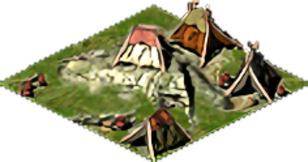
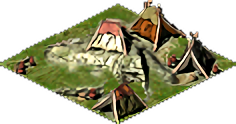
Merges et Upgrades

diff --git a/Caesar_3_MVC/Model/Buildings/House.py b/Caesar_3_MVC/Model/Buildings/House.py
@@ -54,24 +54,11 @@ class House(Building):
 
             #Merge 4 1*1 en un 2*2 :
             if (self.desc == "SmallTent" or self.desc =="LargeTent") :
-                if self.plateau.map[self.case.x-1][self.case.y].structure and self.plateau.map[self.case.x][self.case.y-1].structure and self.plateau.map[self.case.x-1][self.case.y-1].structure :
-                    ans = (self.desc == self.plateau.map[self.case.x-1][self.case.y].structure.desc,self.desc == self.plateau.map[self.case.x][self.case.y-1].structure.desc,self.desc == self.plateau.map[self.case.x-1][self.case.y-1].structure.desc)
-                    print(ans)
+                if self.plateau.map[self.case.x][self.case.y-1].structure and self.plateau.map[self.case.x+1][self.case.y].structure and self.plateau.map[self.case.x+1][self.case.y-1].structure :
+                    ans = (self.desc == self.plateau.map[self.case.x][self.case.y-1].structure.desc,self.desc == self.plateau.map[self.case.x+1][self.case.y].structure.desc,self.desc == self.plateau.map[self.case.x+1][self.case.y-1].structure.desc)
                     if all(ans) :
-                        MergedHouse(self.case,self.plateau,(2,2),self.desc+"2",[self,self.plateau.map[self.case.x-1][self.case.y].structure,self.plateau.map[self.case.x][self.case.y-1].structure,self.plateau.map[self.case.x-1][self.case.y-1].structure])
+                        MergedHouse(self.case,self.plateau,(2,2),self.desc+"2",[self,self.plateau.map[self.case.x][self.case.y-1].structure,self.plateau.map[self.case.x+1][self.case.y].structure,self.plateau.map[self.case.x+1][self.case.y-1].structure])
 
-                        """
-                        self.size=(2,2)
-                        self.desc=self.desc + "2"
-
-                        print(self.desc)
-                        self.plateau.map[self.case.x-1][self.case.y].structure.delete()
-                        self.plateau.map[self.case.x-1][self.case.y].structure=self
-                        self.plateau.map[self.case.x][self.case.y-1].structure.delete()
-                        self.plateau.map[self.case.x][self.case.y-1].structure=self
-                        self.plateau.map[self.case.x-1][self.case.y-1].structure.delete()
-                        self.plateau.map[self.case.x-1][self.case.y-1].structure=self
-"""
 
     def upgrade(self) :
         if self.desc=="SmallTent" : 
@@ -97,6 +84,7 @@ class MergedHouse(House) :
         super().__init__(case, plateau, size, desc)
         self.nbHab = houses[0].nbHab+houses[1].nbHab+houses[2].nbHab+houses[3].nbHab
         self.nbHabMax=self.nbHabMax * 4
+        self.case.render_pos=[self.case.render_pos[0], self.case.render_pos[1]+10]
         self.secCases=[]
         for h in houses :
             self.secCases.append(h.case)
@@ -104,7 +92,18 @@ class MergedHouse(House) :
         for c in self.secCases :
             c.structure = self
         self.plateau.structures.append(self)
-        self.plateau.cityHousesList.append(self)       
+        self.plateau.cityHousesList.append(self)
+
+    def delete(self) :
+        #Supprimer les habitants
+        self.case.setStructure(None)
+        self.case.render_pos=[self.case.render_pos[0], self.case.render_pos[1]-10]
+        for oc in self.secCases :
+            oc.setStructure(None)
+        self.case.setFeature("")
+        self.plateau.cityHousesList.remove(self)
+        self.plateau.structures.remove(self)
+        del self     
 
 
 

diff --git a/Caesar_3_MVC/Model/Buildings/WorkBuilding.py b/Caesar_3_MVC/Model/Buildings/WorkBuilding.py
@@ -27,6 +27,8 @@ class Prefecture(WorkBuilding) :
         super().__init__( case, plateau, size, desc, active)
         self.walker = Prefet(self.case,self.plateau,"Prefectus")
         self.plateau.treasury = self.plateau.treasury - PREFECTURE_COST
+        print(self.case.x)
+        print(self.case.y)
 
     def activatePrefecture(aPrefecture,lePlateau) :
         aPrefecture.setActive(True)
@@ -34,9 +36,7 @@ class Prefecture(WorkBuilding) :
         aPrefecture.setWalker(myPrefect)
         #Reste à afficher le drapeau ROUGE
     
-
-        
-
+    
 class EnginnerPost(WorkBuilding) :
 
     def __init__(self, case, plateau, size, desc, active):
